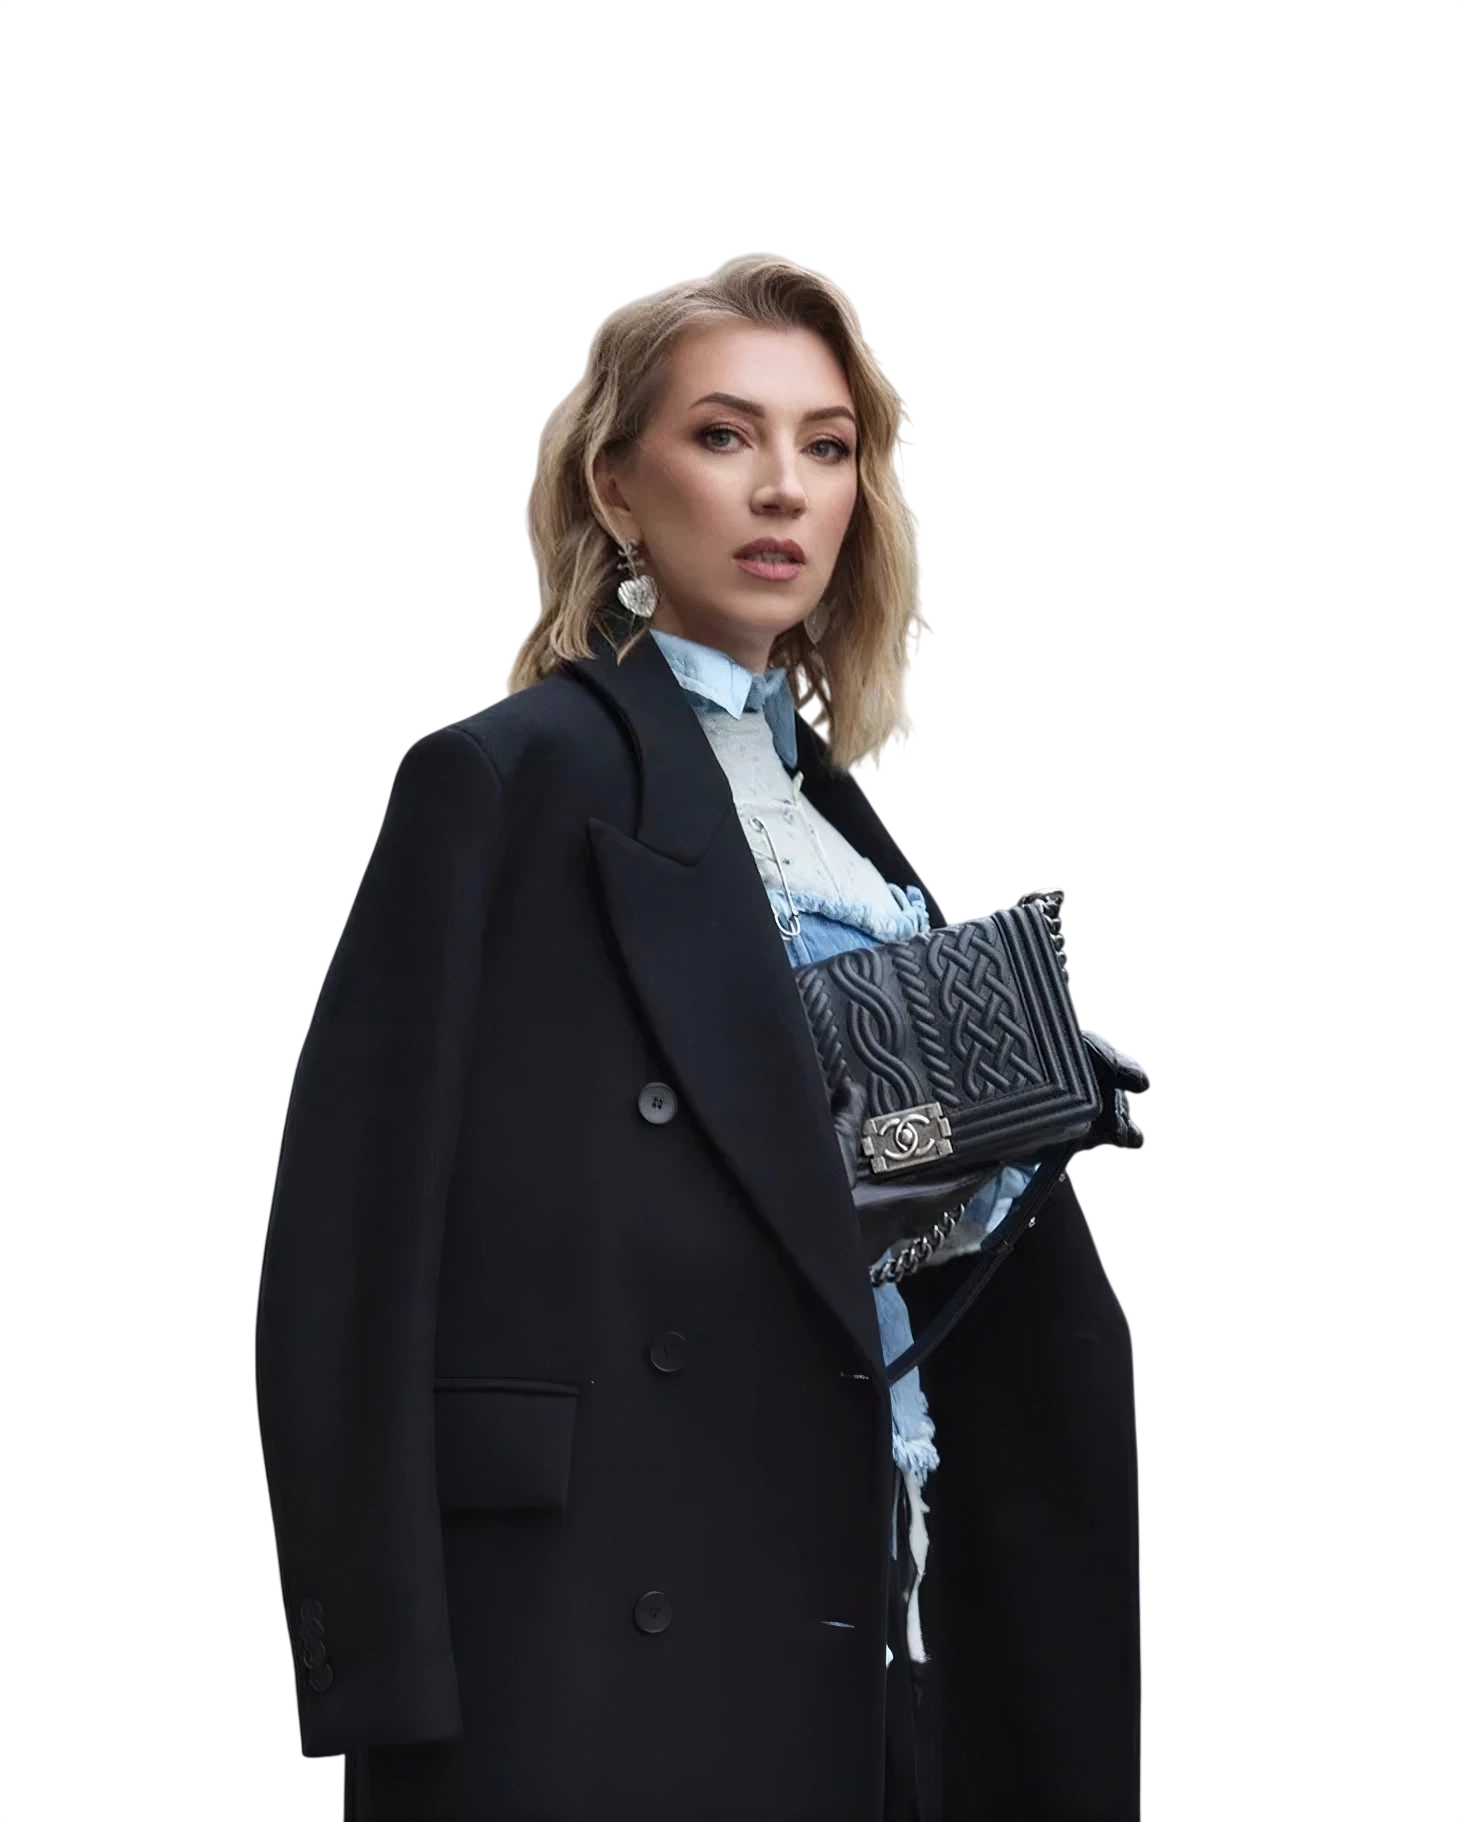
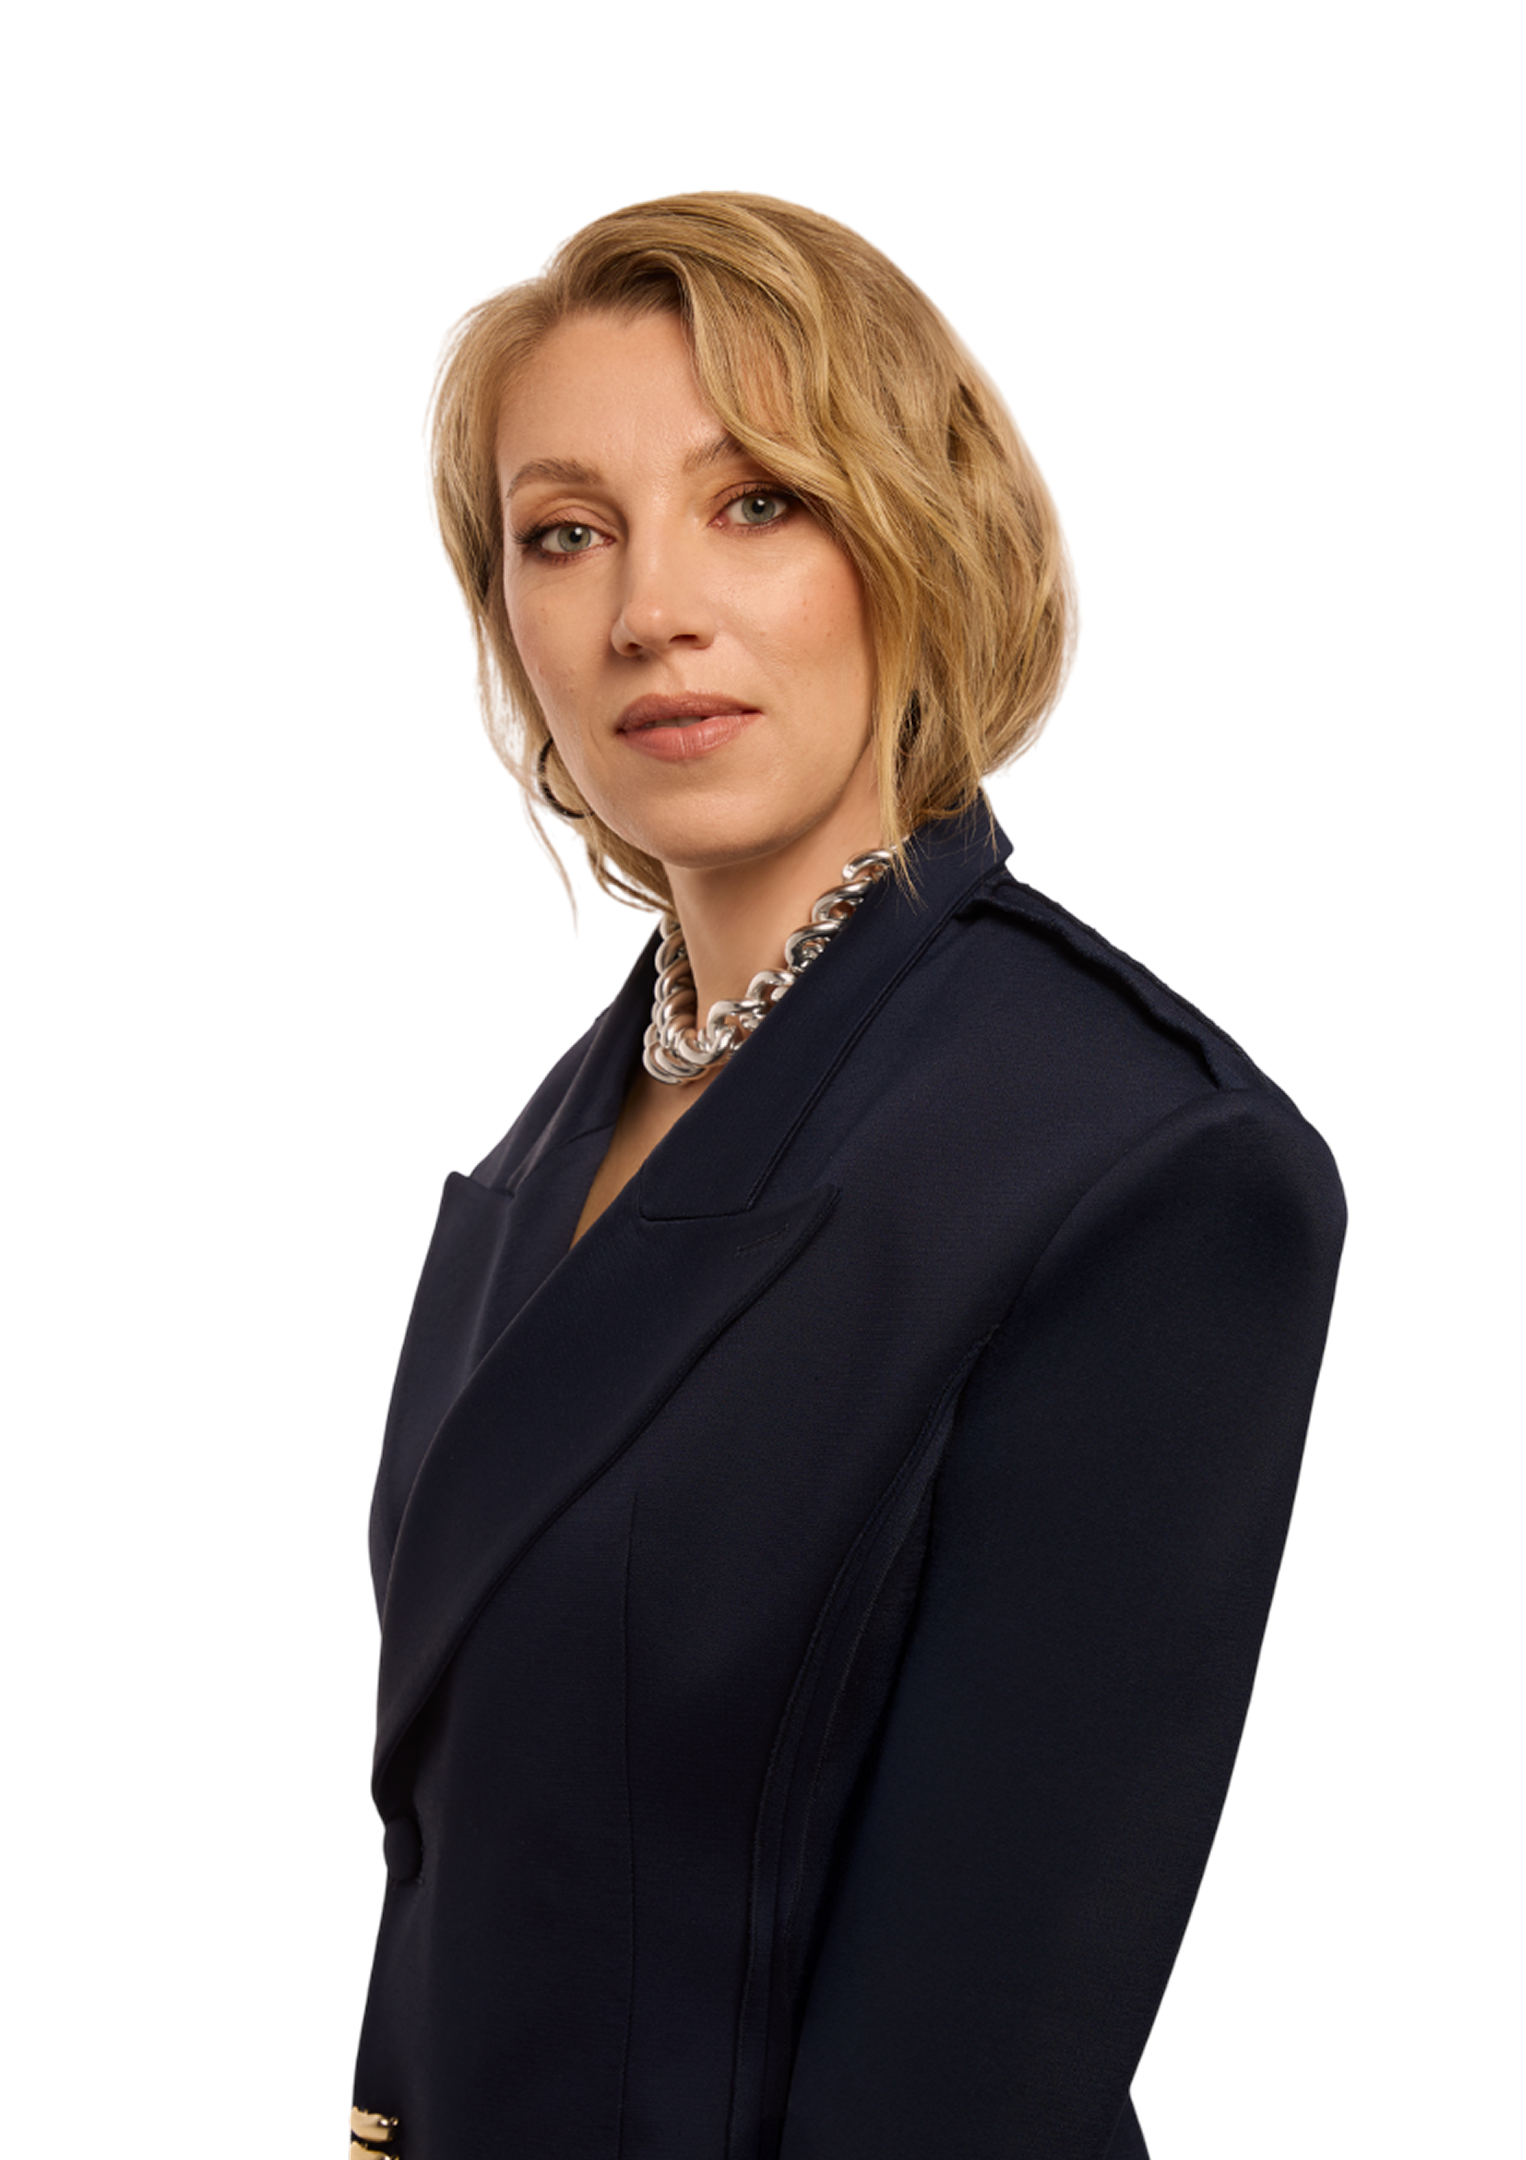
design improvement

diff --git a/index.html b/index.html
@@ -182,6 +182,7 @@
       align-items: flex-end;
       justify-content: center;
       height: 100%;
+      position: relative;
     }
 
     .hero-photo {
@@ -593,10 +594,27 @@
     }
 
     .contrast-divider {
-      width: 1px;
-      background: rgba(255,255,255,0.12);
-      height: 100%;
+      width: 40px;
+      display: flex;
+      flex-direction: column;
+      align-items: center;
+      justify-content: center;
+      gap: 0;
+      position: relative;
     }
+    .contrast-divider-line {
+      width: 1px;
+      flex: 1;
+      background: linear-gradient(to bottom, rgba(224,120,32,0.3), rgba(98,232,163,0.3));
+      min-height: 20px;
+    }
+    .contrast-icon {
+      width: 28px;
+      height: 28px;
+      flex-shrink: 0;
+    }
+    .contrast-icon.cross { color: var(--coral-light); }
+    .contrast-icon.check { color: #62E8A3; }
 
     .conscious-image-bottom-wrap {
       display: flex;
@@ -619,7 +637,16 @@
       }
       .contrast-divider {
         width: 100%;
+        height: 40px;
+        flex-direction: row;
+        gap: 0;
+      }
+      .contrast-divider-line {
+        width: 100%;
         height: 1px;
+        flex: 1;
+        min-width: 20px;
+        background: linear-gradient(to right, rgba(224,120,32,0.3), rgba(98,232,163,0.3));
       }
     }
 
@@ -1237,6 +1264,93 @@
       font-size: 12px;
       color: var(--text-mid);
     }
+
+    /* ── HERO FLOAT CARD ── */
+    .hero-float-card {
+      position: absolute;
+      bottom: 40px;
+      left: -40px;
+      display: grid;
+      grid-template-columns: 44px 1fr;
+      gap: 16px;
+      align-items: center;
+      width: min(100%, 310px);
+      border: 1px solid rgba(255, 255, 255, 0.34);
+      border-radius: 999px;
+      padding: 14px 20px 14px 16px;
+      background: rgba(1, 51, 76, 0.82);
+      backdrop-filter: blur(14px);
+      -webkit-backdrop-filter: blur(14px);
+      box-shadow: 0 18px 42px rgba(1, 51, 76, 0.32);
+      animation: cardIn 0.6s cubic-bezier(0.22, 1, 0.36, 1) 0.55s backwards,
+                 cardFloat 6s ease-in-out 1.5s infinite;
+      z-index: 10;
+    }
+
+    .float-icon {
+      display: flex;
+      align-items: center;
+      justify-content: center;
+      width: 44px;
+      height: 44px;
+      background: var(--coral);
+      border-radius: 50%;
+      flex-shrink: 0;
+    }
+
+    .float-svg {
+      width: 22px;
+      height: 22px;
+      color: #fff;
+      stroke: currentColor;
+    }
+
+    .hero-float-card strong {
+      display: block;
+      color: var(--white);
+      font-size: 15px;
+      font-weight: 800;
+      text-align: left;
+      line-height: 1.2;
+    }
+
+    .hero-float-card p {
+      margin: 3px 0 0;
+      color: rgba(255, 255, 255, 0.8);
+      font-size: 11px;
+      font-weight: 600;
+      text-align: left;
+      line-height: 1.2;
+    }
+
+    @keyframes cardIn {
+      from {
+        opacity: 0;
+        transform: translateY(14px) scale(0.96);
+      }
+      to {
+        opacity: 1;
+        transform: translateY(0) scale(1);
+      }
+    }
+
+    @keyframes cardFloat {
+      0%, 100% {
+        transform: translateY(0);
+      }
+      50% {
+        transform: translateY(-7px);
+      }
+    }
+
+    @media (max-width: 900px) {
+      .hero-float-card {
+        bottom: 20px;
+        left: 0;
+        right: 0;
+        margin: 0 auto;
+      }
+    }
   </style>
 </head>
 <body>
@@ -1266,7 +1380,18 @@
     </div>
 
     <div class="hero-photo-wrap fade-in d2">
-      <img src="tatyana_hero.png" alt="Татьяна Волкова" class="hero-photo">
+      <img src="tatyana_hero.png" alt="Татьяна Волкова — эксперт по формированию личного капитала" class="hero-photo">
+      <div class="hero-float-card">
+        <span class="float-icon">
+          <svg viewBox="0 0 24 24" fill="none" stroke="currentColor" stroke-width="2.5" class="float-svg">
+            <path stroke-linecap="round" stroke-linejoin="round" d="M16 7a4 4 0 11-8 0 4 4 0 018 0zM12 14a7 7 0 00-7 7h14a7 7 0 00-7-7z" />
+          </svg>
+        </span>
+        <div>
+          <strong>Татьяна Волкова</strong>
+          <p>эксперт по формированию личного капитала</p>
+        </div>
+      </div>
     </div>
   </div>
 </header>
@@ -1375,7 +1500,11 @@
             У человека, который советует акцию в чате, могут быть совершенно другие инвестиционные цели, другой срок, другой доход и другой болевой порог. То, что идеально подходит ему — может быть лишним для вас.
           </p>
         </div>
-        <div class="contrast-divider"></div>
+        <div class="contrast-divider">
+          <svg class="contrast-icon cross" viewBox="0 0 24 24" fill="none" stroke="currentColor" stroke-width="2.5" stroke-linecap="round"><path d="M6 6l12 12M18 6l-12 12"/></svg>
+          <div class="contrast-divider-line"></div>
+          <svg class="contrast-icon check" viewBox="0 0 24 24" fill="none" stroke="currentColor" stroke-width="2.5" stroke-linecap="round" stroke-linejoin="round"><path d="M4 12l6 6 10-10"/></svg>
+        </div>
         <div class="contrast-side good">
           <div class="contrast-side-title">Как действовать ОСОЗНАННО</div>
           <h3 class="contrast-title">Спросить себя: решает ли этот актив лично мою задачу?</h3>
@@ -1394,7 +1523,11 @@
             Когда вы смотрите на других, вы видите лишь фасад: кто-то уже хвастается покупкой облигаций, кто-то считает гипотетический капитал, а кто-то увлеченно спорит о дивидендах.
           </p>
         </div>
-        <div class="contrast-divider"></div>
+        <div class="contrast-divider">
+          <svg class="contrast-icon cross" viewBox="0 0 24 24" fill="none" stroke="currentColor" stroke-width="2.5" stroke-linecap="round"><path d="M6 6l12 12M18 6l-12 12"/></svg>
+          <div class="contrast-divider-line"></div>
+          <svg class="contrast-icon check" viewBox="0 0 24 24" fill="none" stroke="currentColor" stroke-width="2.5" stroke-linecap="round" stroke-linejoin="round"><path d="M4 12l6 6 10-10"/></svg>
+        </div>
         <div class="contrast-side good">
           <div class="contrast-side-title">Как действовать ОСОЗНАННО</div>
           <h3 class="contrast-title">Всегда держать фокус исключительно на своей задаче</h3>
@@ -1413,7 +1546,11 @@
             Стремление сразу купить много разных сложных инструментов для диверсификации часто приводит к путанице. Вы получаете хаотичное нагромождение активов.
           </p>
         </div>
-        <div class="contrast-divider"></div>
+        <div class="contrast-divider">
+          <svg class="contrast-icon cross" viewBox="0 0 24 24" fill="none" stroke="currentColor" stroke-width="2.5" stroke-linecap="round"><path d="M6 6l12 12M18 6l-12 12"/></svg>
+          <div class="contrast-divider-line"></div>
+          <svg class="contrast-icon check" viewBox="0 0 24 24" fill="none" stroke="currentColor" stroke-width="2.5" stroke-linecap="round" stroke-linejoin="round"><path d="M4 12l6 6 10-10"/></svg>
+        </div>
         <div class="contrast-side good">
           <div class="contrast-side-title">Как действовать ОСОЗНАННО</div>
           <h3 class="contrast-title">Начать с понятной и строгой инвестиционной логики</h3>
@@ -1432,7 +1569,11 @@
             Рыночный шум бесконечен. Если дёргаться на каждый аналитический прогноз или новостной заголовок, вы быстро выгорите и совершите массу необдуманных сделок.
           </p>
         </div>
-        <div class="contrast-divider"></div>
+        <div class="contrast-divider">
+          <svg class="contrast-icon cross" viewBox="0 0 24 24" fill="none" stroke="currentColor" stroke-width="2.5" stroke-linecap="round"><path d="M6 6l12 12M18 6l-12 12"/></svg>
+          <div class="contrast-divider-line"></div>
+          <svg class="contrast-icon check" viewBox="0 0 24 24" fill="none" stroke="currentColor" stroke-width="2.5" stroke-linecap="round" stroke-linejoin="round"><path d="M4 12l6 6 10-10"/></svg>
+        </div>
         <div class="contrast-side good">
           <div class="contrast-side-title">Как действовать ОСОЗНАННО</div>
           <h3 class="contrast-title">Хладнокровно проверять: касается ли это моей стратегии?</h3>